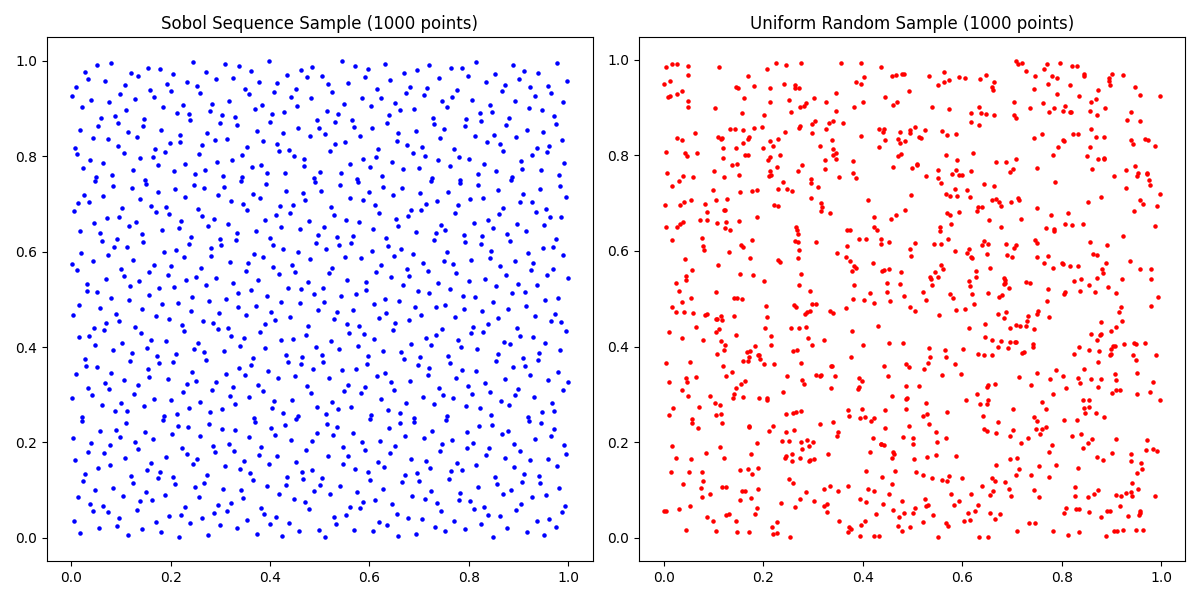
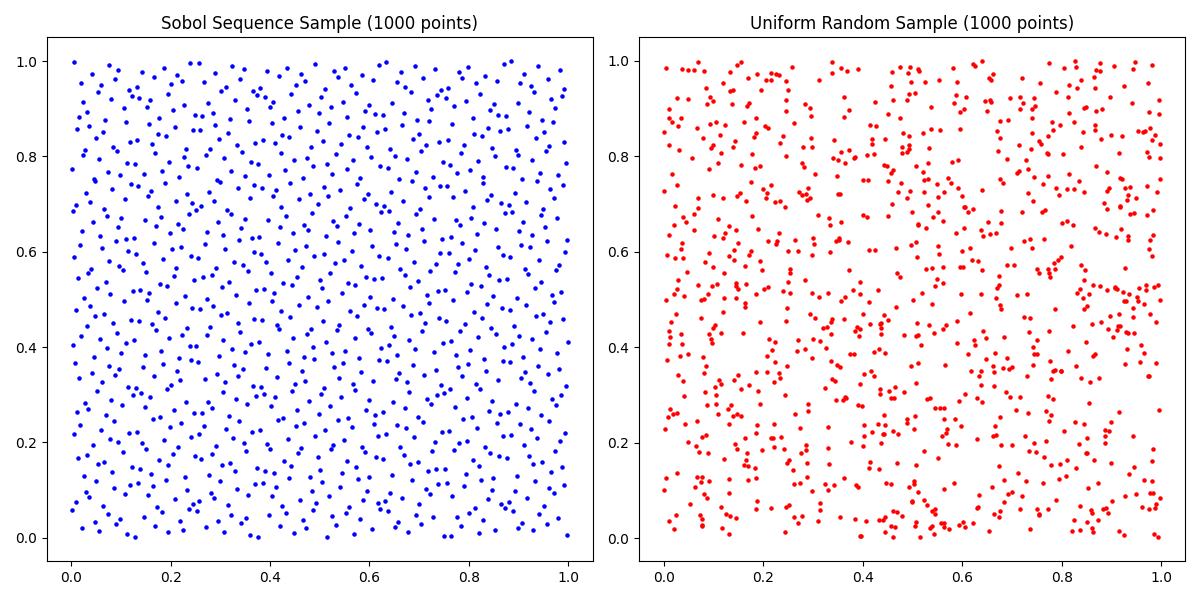
Grid based sampling

diff --git a/modules/init.py b/modules/init.py
@@ -24,6 +24,8 @@ import multiprocessing
 # Import sobol sequence generator
 from scipy.stats import qmc
 
+# Time module
+import time
 
 # Logger import
 from logger import Logger
@@ -452,8 +454,9 @@ class ClusterInitializer:
             simulation_box: Simulation box to place molecules in
             placing_method: Method to place molecules:
                 - "random" for random placement with distance checks
-                - "grid" for systematic grid placement (TODO: Implement)
+                - "partition" partition based placemement in the simulation box (for spherical currently)
                 - "sobol" for low-discrepancy sequence placement
+                
         """
         
         if len(submolecules) == 0:
@@ -642,7 +645,10 @@ class ClusterInitializer:
                                   n_partitions,
                                   n_theta = 10,
                                   n_phi = 10,
-                                  n_r = 5):
+                                  n_r = 5,
+                                  spacing: Optional[str] = "linear",
+                                  sobol_scramble: bool = True,
+                                  sobol_seed: Optional[int] = None):
         """ 
         Generates a grid of points for each partition of the sphere
 
@@ -653,29 +659,83 @@ class ClusterInitializer:
             n_theta: Number of points in theta direction per partition
             n_phi: Number of points in phi direction
             n_r: Number of points in radial direction
+
+        spacing methods:
+            - "linear": using a linear grid in (r, phi, theta)
+            - "equal_volume_grid" a deterministic grid closer to uniform 3D density
+            - "sobol" using quasi-random sampling uniformly in volume per partition        
         """
-        center = np.array(center)
-        slices = ClusterInitializer.partition_sphere(center, radius, n_partitions)
+        center = np.asarray(center, dtype=np.float64)
+        spacing = (spacing or "linear").lower().strip()
+
+        if radius <= 0:
+            raise ValueError("Radius must be positive")
+        if n_partitions <= 0:
+            raise ValueError("n_partitions must be > 0") 
+
+        slices = ClusterInitializer.partition_sphere(center, radius, n_partitions) 
         all_partition_points = []
 
-        # Define ranges for phi and r (constant for all partitions)
-        phi_values = np.linspace(0, np.pi, n_phi)
-        r_values = np.linspace(0, radius, n_r)
+        if spacing not in {"linear", "equal_volume_grid", "sobol"}:
+            raise ValueError(f"Unknown spacing method: {spacing}. Choose from 'linear', 'equal_volume_grid', or 'sobol'.")
+    
+        for p_idx, (theta_start, theta_end) in enumerate(slices):
+            if spacing == "sobol":
+                # Keep the point count consistent with linear grid
+                n_points = max(1, n_theta * n_phi * n_r)
+                
+                # Generate engine per partition
+                seed = None if sobol_seed is None else sobol_seed + p_idx
+                engine = qmc.Sobol(d=3, scramble=sobol_scramble, seed=seed)
+                u = engine.random(n=n_points)
 
-        for start_theta, end_theta in slices:
+                # Uniform sample in the wedge volume:
+                # r^3 ~ U(0, R^3), cosphi = U(-1,1) theta ~ U(theta0, theta1)
+                r = radius * np.cbrt(u[:, 0])  
+                cos_phi = 2.0 * u[:, 1] - 1.0
+                sin_phi = np.sqrt(np.clip(1.0 - cos_phi * cos_phi, 0.0, 1.0))
+                theta = theta_start + (theta_end - theta_start) * u[:, 2]
+
+                # Transform to cartesian
+                x = center[0] + r * sin_phi * np.cos(theta) 
+                y = center[1] + r * sin_phi * np.sin(theta)
+                z = center[2] + r * cos_phi
+                points = np.column_stack((x, y, z))
+                all_partition_points.append(points)
+                continue
+            
+            theta_values = np.linspace(theta_start, theta_end, n_theta, endpoint=False)
+
+            # grid based methods
+            if spacing == "linear":
+                phi_values = np.linspace(0, np.pi, n_phi)
+                r_values = np.linspace(0, radius, n_r)
+            elif spacing == "equal_volume_grid":
+                # Midpoints to avoid piling exactly at poles and center
+                j = np.arange(n_phi)
+                k = np.arange(n_r)
+
+                cos_phi_values = -1.0 + 2.0 * (j + 0.5) / n_phi
+                phi_values = np.arccos(np.clip(cos_phi_values, -1.0, 1.0))
+
+                # r^3 uniformly
+                r_values = radius * np.cbrt((k + 0.5) / n_r)
+
             partition_points = []
-            theta_values = np.linspace(start_theta, end_theta, n_theta)
-
-            # Create the grid
             for r in r_values:
                 for phi in phi_values:
+                    sin_phi = np.sin(phi)
+                    cos_phi = np.cos(phi)
                     for theta in theta_values:
-                        points = ClusterInitializer._spherical_to_cartesian(r, theta, phi, center)
-                        partition_points.append(points)
+                        x = center[0] + r * sin_phi * np.cos(theta)
+                        y = center[1] + r * sin_phi * np.sin(theta)
+                        z = center[2] + r * cos_phi
+                        partition_points.append([x, y, z])
             all_partition_points.append(np.array(partition_points))
         return all_partition_points
     
-    
+
+            
     
 
 
@@ -882,32 +942,55 @@ if __name__ == "__main__":
     plt.savefig("figures/sphere_partitioning.png")
 
 
-    # Test the grid point generation for the sphere partitions
-    n_theta = 10
-    n_phi = 5
-    n_r = 3
-    partition_points = ClusterInitializer.generate_partition_points(
-        center=center_point,
-        radius=radius,
-        n_partitions=n_submolecules,
-        n_theta=n_theta,
-        n_phi=n_phi,
-        n_r=n_r
-    )
+    # Test three different spacing methods for partition point generation^
+    n_theta = 40
+    n_phi = 20
+    n_r = 20
+    
+    times = []
+    for spacing_method in ["linear", "equal_volume_grid", "sobol"]:
+        
+        times = []
+        start_time = time.time()
+        points = ClusterInitializer.generate_partition_points(
+            center=center_point,
+            radius=radius,
+            n_partitions=n_submolecules,
+            n_theta=n_theta,
+            n_phi=n_phi,
+            n_r=n_r,
+            spacing=spacing_method,
+            sobol_scramble=True,
+            sobol_seed=42
+        )
+        end_time = time.time()
+        elapsed = end_time - start_time
+        times.append(elapsed)
+        total_points = sum(len(p) for p in points)
+        print(f"\nPartition point generation test with spacing method '{spacing_method}':")
+        print(f"  Total points generated: {total_points}")
+        # Make 3D plot of sampled points for the first partition
+        fig = plt.figure(figsize=(8, 8))
+        ax = fig.add_subplot(111, projection='3d')
+        for p_idx, partition_points in enumerate(points):
+            ax.scatter(partition_points[:, 0], partition_points[:, 1], partition_points[:, 2], s=20, alpha=0.6, label=f'Partition {p_idx+1}')
+        ax.set_title(f'Partition Points with {spacing_method.capitalize()} Spacing')
+        ax.set_xlabel('X (Angstrom)')
+        ax.set_ylabel('Y (Angstrom)')
+        ax.set_zlabel('Z (Angstrom)')
+        ax.legend()
+        plt.savefig(f"figures/partition_points_{spacing_method}.png")
 
-    # Plot in 3D plot
-    from mpl_toolkits.mplot3d import Axes3D
-    fig = plt.figure(figsize=(8, 8))
-    ax = fig.add_subplot(111, projection='3d')
-    colors = ['red', 'green', 'blue', 'orange']
-    for i, points in enumerate(partition_points):
-        ax.scatter(points[:, 0], points[:, 1], points[:, 2], s=20, color=colors[i], alpha=0.6, label=f'Submolecule {i+1}')
-    ax.set_title('Grid Points in Sphere Partitions')
-    ax.set_xlabel('X (Angstrom)')
-    ax.set_ylabel('Y (Angstrom)')
-    ax.set_zlabel('Z (Angstrom)')
-    ax.legend()
-    plt.savefig("figures/partition_points.png")
+    # Plot timing results for partition point generation
+    plt.figure(figsize=(6, 4))
+    plt.bar(["Linear", "Equal Volume Grid", "Sobol"], times, color=['blue', 'orange', 'green'])
+    plt.ylabel('Time (seconds)')
+    plt.title('Timing for Partition Point Generation')
+    plt.savefig("figures/partition_point_generation_timing.png")
+
+      
+
+
 
 
 #    test_initializer(
